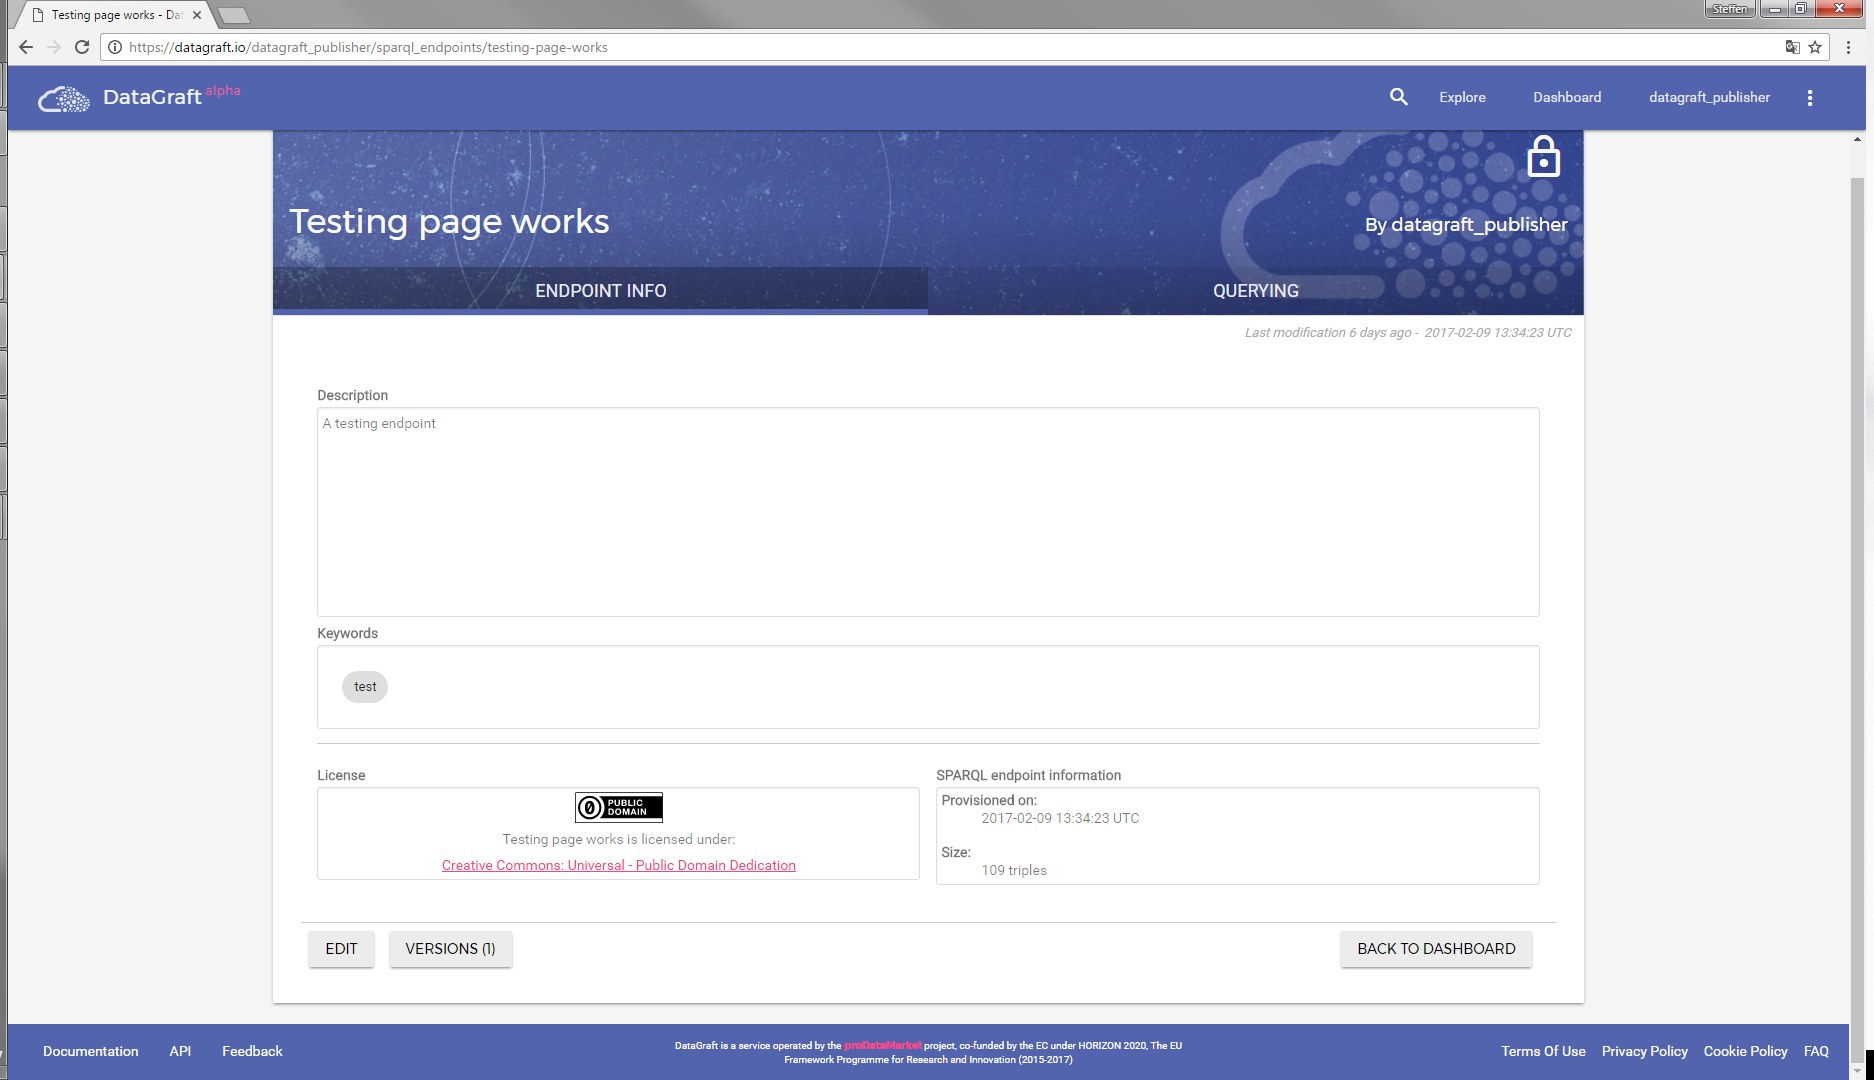
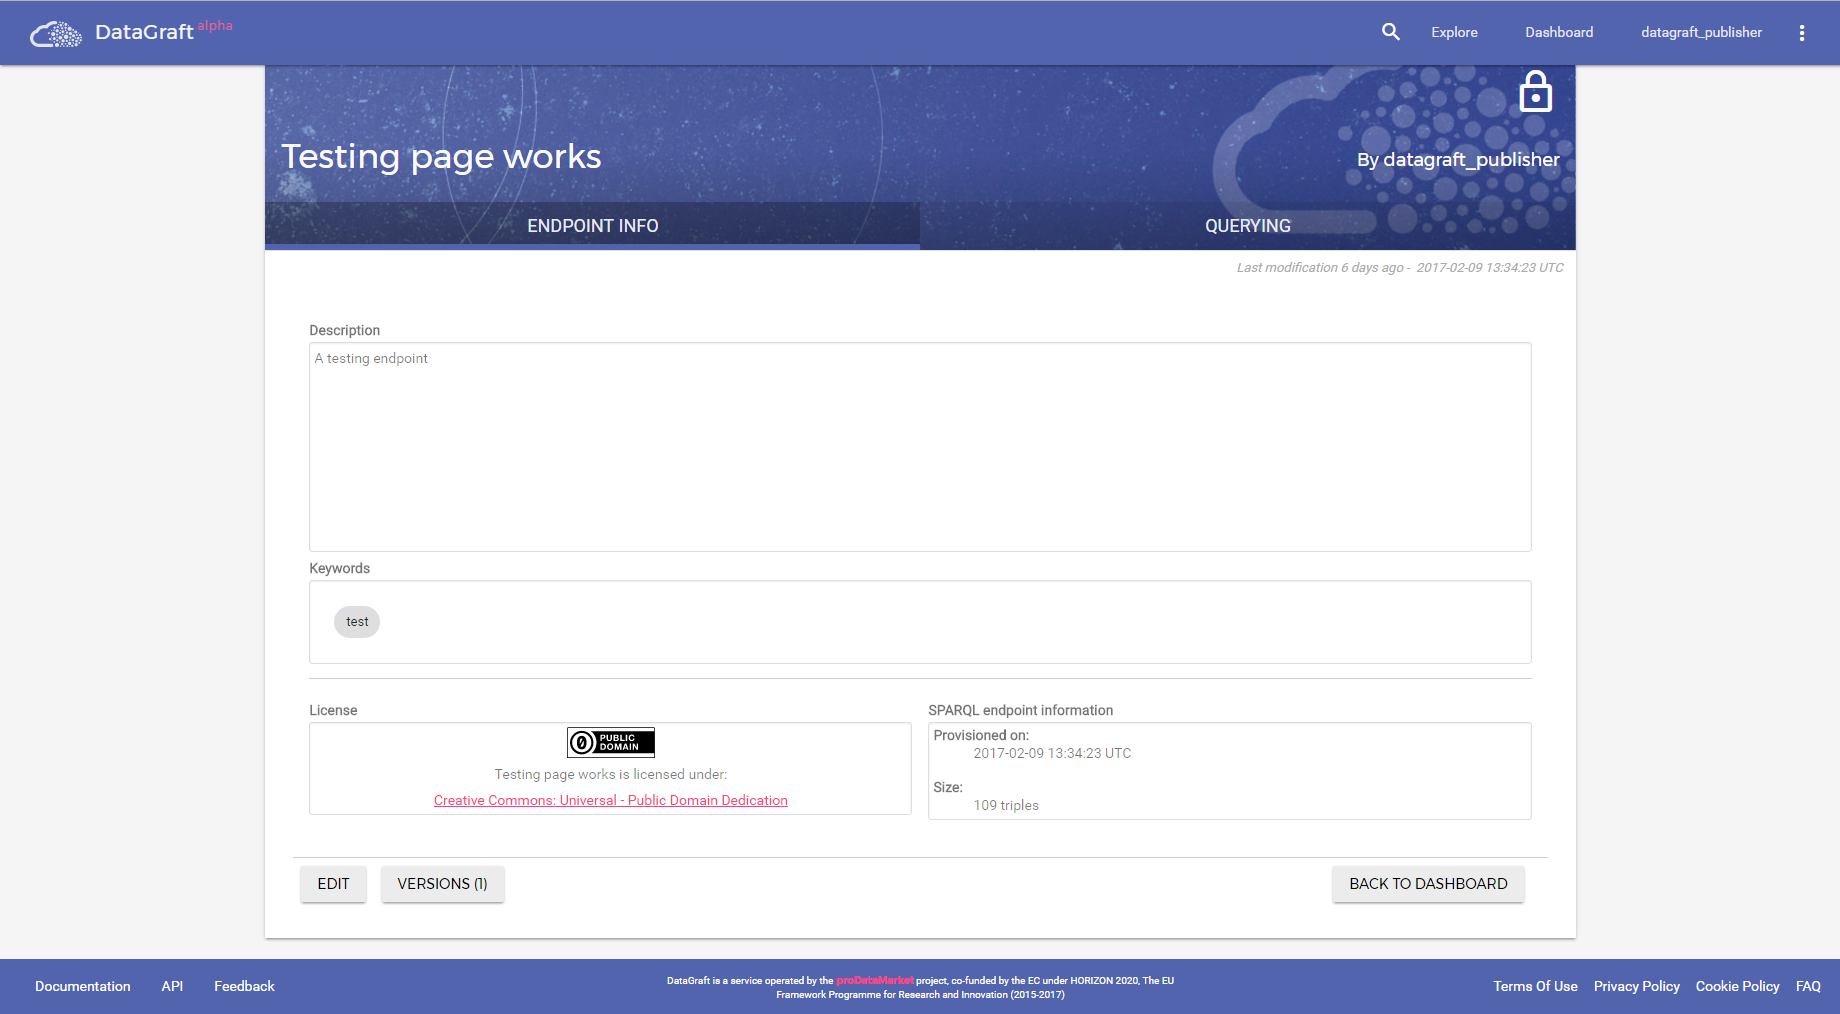
Hot fixes. Fixed links to signup and dashboard on the landing page. Commented out repository size for sparql endpoints in Quotas Helper. Cropped screenshots.

diff --git a/app/helpers/quotas_helper.rb b/app/helpers/quotas_helper.rb
@@ -57,13 +57,13 @@ module QuotasHelper
   def quota_used_sparql_triples(user)
     total_sparql_triples = 0;
     users_sparql = user.sparql_endpoints
-    users_sparql.each do |se|
-      unless se.repository_size == nil
-        total_sparql_triples += se.repository_size
-      else
-        puts "Sparql_endpoint is missing size information:"+se.inspect
-      end
-    end
+#    users_sparql.each do |se|
+#      unless se.repository_size == nil
+#        total_sparql_triples += se.repository_size
+#      else
+#        puts "Sparql_endpoint is missing size information:"+se.inspect
+#      end
+#    end
     return total_sparql_triples
   end
 
